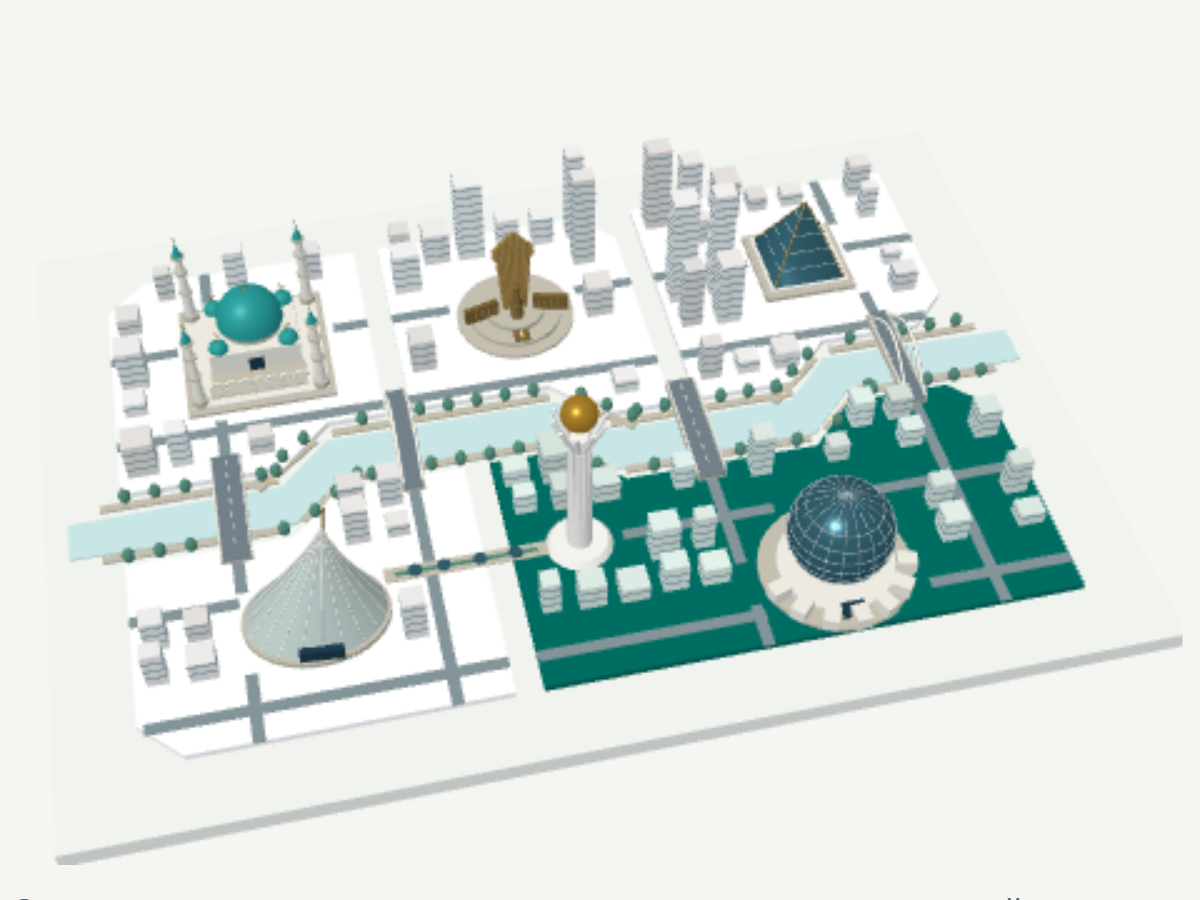
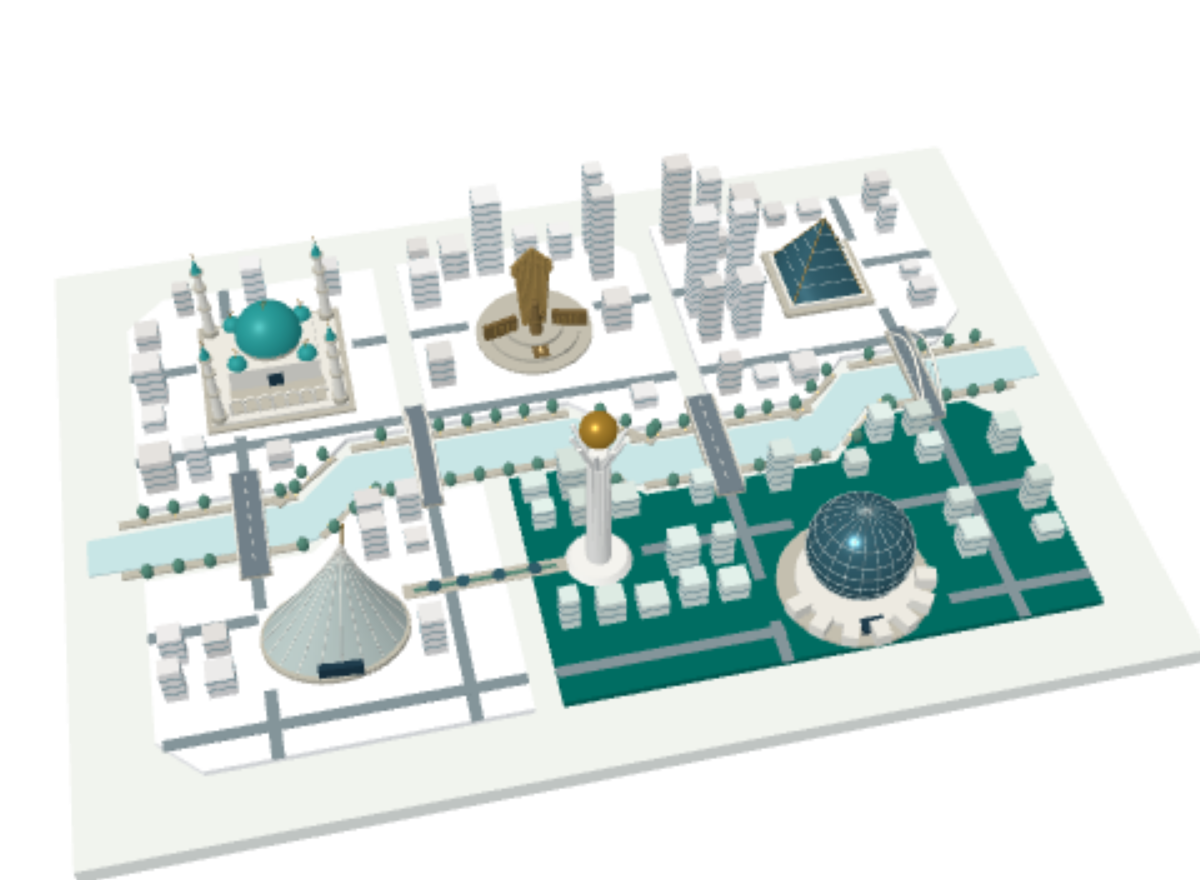
fix(frontend): refresh city previews and record final acceptance

diff --git a/frontend/docs/reports/clean-start.md b/frontend/docs/reports/clean-start.md
@@ -1,0 +1,115 @@
+# Clean-start проверка `origin/main`
+
+Дата: 23.09.2026  
+Статус: **не завершена: контейнерный запуск недоступен в проверяющей среде**.
+
+## Исходники и изоляция
+
+- Сверен `origin/main`: `53ee80641b60cae32571db3476a1a791f9b7416a`.
+- `53ee806` является предком `origin/main` (проверка `git merge-base --is-ancestor` завершилась с кодом 0).
+- Создан отдельный чистый checkout: `C:\\Users\\kiril\\Hackathon\\clean-start-53ee806`.
+- В checkout `HEAD` равен `53ee80641b60cae32571db3476a1a791f9b7416a`, `git status --short` пуст.
+- Для изолированного Compose-прогона выбраны незанятые порты `18080` (API) и `13000` (frontend): `Get-NetTCPConnection -State Listen -LocalPort 18080,13000` не вернул слушателей.
+- Предполагаемое имя Compose project: `akim-clean-53ee806`. Оно отличается от штатного `akim-5h`; существующие контейнеры и действующее демо не запускались, не останавливались и не менялись.
+
+## Фактическая среда
+
+Проверка выполнялась в **Windows PowerShell на хосте Windows**, не в WSL Ubuntu.
+
+| Компонент | Фактический результат |
+| --- | --- |
+| WSL | `wsl.exe -l -q` / `wsl.exe --status`: установленных дистрибутивов нет; Ubuntu недоступна. |
+| Docker / Docker Compose | `docker` отсутствует в `PATH`; `where.exe docker` не нашёл исполняемый файл. `podman` и `nerdctl` также не найдены. |
+| Node.js | `v24.21.0` |
+| npm | `11.19.0` |
+| .NET SDK | отсутствует (`dotnet --version`: `No .NET SDKs were found`). |
+
+Следовательно, невозможно честно выполнить Docker Compose build, запустить API или послать HTTP-запросы, требующие API. Нативная Windows-проверка ниже не является Ubuntu-прогоном и не подтверждает контейнеры.
+
+## Выполненные команды и результаты
+
+```powershell
+git -C C:\Users\kiril\Hackathon\hack-4c816c70-team fetch origin
+git -C C:\Users\kiril\Hackathon\hack-4c816c70-team rev-parse origin/main
+git -C C:\Users\kiril\Hackathon\hack-4c816c70-team merge-base --is-ancestor 53ee806 origin/main
+git clone --no-local --branch main C:\Users\kiril\Hackathon\hack-4c816c70-team C:\Users\kiril\Hackathon\clean-start-53ee806
+git -C C:\Users\kiril\Hackathon\clean-start-53ee806 rev-parse HEAD
+Get-NetTCPConnection -State Listen -LocalPort 18080,13000
+```
+
+Результат: checkout создан отдельно, SHA совпадает с `origin/main`, оба порта на момент проверки свободны.
+
+```powershell
+wsl.exe -l -q
+wsl.exe --status
+where.exe docker
+Get-Command podman,nerdctl,docker.exe -ErrorAction SilentlyContinue
+docker compose version
+node --version
+npm --version
+dotnet --version
+```
+
+Результат: WSL-дистрибутивов, Docker/Compose, Podman/Nerdctl и .NET SDK нет. Node/npm доступны.
+
+```powershell
+Set-Location C:\Users\kiril\Hackathon\clean-start-53ee806\frontend
+npm ci
+npm run build
+```
+
+Первый `npm ci` получил `EPERM` при чтении общего `C:\\Users\\kiril\\AppData\\Local\\npm-cache`; после разрешённого повтора зависимости установились. Финальный `npm run build` завершился успешно: Next.js 16.3.6 собрал `/`, `/decisions` и `/results` как static routes. Это только нативная frontend production build-проверка, без API.
+
+## Проверки clean start
+
+| Проверка | Результат | Причина / наблюдение |
+| --- | --- | --- |
+| `docker compose ... up --build -d --wait` | Не выполнено | Docker/Compose отсутствует. |
+| Healthcheck `GET /health` | Не выполнено | API не может быть собран и запущен без Docker или .NET SDK. |
+| Swagger `/swagger/v1/swagger.json` | Не выполнено | API не запущен. |
+| Контрольный POST | Не выполнено | API не запущен. Контракт в `docs/api.md` задаёт ожидаемые `spent=95`, `remaining=5`, `baselineScore=52.56`, `score=56.54`. |
+| Отказ `choices: []` | Не выполнено | API не запущен. Контракт ожидает HTTP 400 и `error.code=WRONG_CHOICE_COUNT`, без Score. |
+| Frontend production build | Пройден | Нативный Windows build в отдельном checkout; не подтверждает образ frontend. |
+
+## Команды для повторения полного изолированного прогона в WSL Ubuntu
+
+Ниже — подготовленный, но **не выполненный** набор команд. Его следует запускать после установки Ubuntu в WSL и включения Docker Desktop integration. Он использует отдельный каталог, project name и порты; он не затрагивает действующее демо.
+
+```bash
+git clone https://github.com/BAITC-Hacks/hack-4c816c70-team.git ~/akim-clean-53ee806
+cd ~/akim-clean-53ee806
+git fetch origin
+git checkout --detach 53ee80641b60cae32571db3476a1a791f9b7416a
+cp .env.example .env
+sed -i \
+  -e 's/^API_PORT=.*/API_PORT=18080/' \
+  -e 's/^FRONTEND_PORT=.*/FRONTEND_PORT=13000/' \
+  -e 's|^FRONTEND_ORIGIN=.*|FRONTEND_ORIGIN=http://localhost:13000|' \
+  -e 's|^NEXT_PUBLIC_API_URL=.*|NEXT_PUBLIC_API_URL=http://localhost:18080|' \
+  -e 's/^LLM_MODE=.*/LLM_MODE=mock/' \
+  -e 's/^OPENAI_API_KEY=.*/OPENAI_API_KEY=/' .env
+docker compose -p akim-clean-53ee806 up --build -d --wait
+docker compose -p akim-clean-53ee806 ps
+curl --fail http://localhost:18080/health
+curl --fail http://localhost:18080/swagger/v1/swagger.json
+curl --fail-with-body http://localhost:18080/api/simulations/evaluate \
+  -H 'Content-Type: application/json' \
+  -H 'Accept-Language: ru-RU' \
+  --data '{"choices":[{"measureId":"M7","districtId":"nura"},{"measureId":"M8","districtId":"nura"},{"measureId":"M10","districtId":"nura"},{"measureId":"M12"},{"measureId":"M5","districtId":"saryarka"}]}'
+curl --include http://localhost:18080/api/simulations/evaluate \
+  -H 'Content-Type: application/json' \
+  --data '{"choices":[]}'
+docker compose -p akim-clean-53ee806 down --volumes --remove-orphans
+```
+
+В успешном контрольном POST следует дополнительно подтвердить JSON-поля `spent: 95`, `remaining: 5`, `baselineScore: 52.56`, `score: 56.54`. Второй запрос должен дать HTTP 400 с `error.code: WRONG_CHOICE_COUNT` и не содержать оценку.
+
+## README
+
+Статическая сверка README с `docker-compose.yml`, `.env.example` и `docs/api.md` не выявила функционального противоречия: Compose действительно параметризует `API_PORT`, `FRONTEND_PORT`, `FRONTEND_ORIGIN`, `NEXT_PUBLIC_API_URL`, `LLM_MODE` и пустой `OPENAI_API_KEY`.
+
+Полезное конкретное дополнение для README (не внесено по заданию): после раздела о портах добавить изолированную команду для параллельной проверки — `docker compose -p akim-clean-<sha> --env-file .env.clean up --build -d --wait` — и пример `.env.clean` с согласованными `API_PORT`, `FRONTEND_PORT`, `FRONTEND_ORIGIN` и `NEXT_PUBLIC_API_URL`. Это предотвратит случайный конфликт с действующим Compose project при воспроизведении релиза.
+
+## Передача
+
+Коммит, push и деплой не выполнялись: они назначены архитектору. Для полной приёмки нужен повтор раздела «Команды для повторения…» в WSL Ubuntu с Docker Desktop integration или в иной явно названной среде с Docker Compose v2.

diff --git a/frontend/docs/reports/claude-2.md b/frontend/docs/reports/claude-2.md
@@ -1,5 +1,38 @@
 # Отчёт Claude 2 — конструктор пяти решений
 
+## Публичный сайт https://akim-5h-pta5pi108.gobrev.dev/ — приёмка, 23.09.2026, ~16:58–17:02 (UTC+5)
+
+Исполнитель Claude 2. Код и git не менял.
+
+- **URL:** `https://akim-5h-pta5pi108.gobrev.dev/` — не localhost. API на том же хосте (`GET /api/scenario` → 200, `POST /api/simulations/evaluate`).
+- **Версия frontend:** по данным пользователя — `631efbb`. Сборку со страницы я не проверял. Исправления из более новых коммитов (`29817a7` и позже) этому прогону **не приписываются**: ошибки с неизвестным кодом или нарушенным контрактом здесь не проверялись.
+- **Браузер:** встроенный браузер приложения Claude (Chromium 152.0.7977.130, Windows 10 x64), верхняя вкладка. Размеры задавались эмуляцией: 1440×900 (desktop, `clientWidth` 1425 с обычным скроллбаром) и 390×844 (мобильный профиль, скроллбар поверх контента, `clientWidth` 390).
+- **Метод:** нажатия на элементы интерфейса (навигация, радиокнопки районов, «Добавить», «×», «Оценить» в нижней мобильной панели, «Edit decisions»). Язык — через `LanguageSwitcher` (select: значение + `change`). Для учёта POST и ошибок в странице перехвачены `fetch`, `console.error`, `onerror`. Переходы только внутри SPA, без перезагрузки.
+- **Оценок через API: 1** (лимит — 2).
+
+| # | Проверка | Факт | Итог |
+| --- | --- | --- | --- |
+| 1 | Контрольный план M7 Нура, M8 Нура, M10 Нура, M12 город, M5 Сарыарка | До оценки: «95 из 100 / 5 ед.», «5 из 5», «Возможная синергия: M10 и M12». POST (17:00:26) `Accept-Language: ru-RU`, тело `{"choices":[…,{"measureId":"M12"},…,{"measureId":"M5","districtId":"saryarka"}]}` → 200, `Content-Language: ru-RU`, `explanationSource: llm`, baseline 52.56, score 56.54, spent 95, remaining 5. Страница: «Ваш план оценён», **«52,56 → 56,54»**, «+3,98», **«95 / 100»**, **«Остаток: 5 ед.»**, синергия «M10 + M12 · Нура: Безопасность улиц +2», «AI-анализ» | Пройдено |
+| 2 | Блокировка несовместимых мер | M3 при M1 (в Есиле): «Нельзя вместе с M1: Либо выделенные полосы (BRT), либо ЛРТ — в любом районе.». M7 при M4 в Нуре: Нура недоступна, «В районе Нура нельзя: уже выбрана M4…»; в Алматы добавлена (`M4:nura,M7:almaty`). Нура у M7 выбрана заранее → M4 в Нуру → «Добавить» у M7 неактивна, «В районе «Нура» уже выбрана M4… Выберите другой район.». 0 POST | Пройдено |
+| 3 | RU/KK/EN на решениях, 390 px | План тот же во всех языках; нижняя панель «5 из 5 остаток 5 ед. План» / «5 / 5 қалдық: 5 бірл. Жоспар» / «5 of 5 5 units left Plan»; корзина открывается, фокус на «План»/«Жоспар»/«Plan», «Оценить» не перекрыта, Escape закрывает, фокус возвращается; переполнение 0; **0 POST** | Пройдено |
+| 4 | RU → KK → EN на готовом результате | **0 POST**, числа прежние (95 / 100, 52.56 → 56.54). Подписи: «Түсіндірме «Русский» тілінде алынған…», «This explanation was received in Русский…»; кнопки «Қазақ тілінде қайта бағалау» / «Re-evaluate in English» — не нажимались | Пройдено |
+| 5 | Сохранение плана после возврата к редактированию | «Edit decisions» → `/decisions`: `M7:nura,M8:nura,M10:nura,M12:city,M5:saryarka`, «95 of 100 / 5 units», пункт «Results» остаётся ссылкой (план не менялся); 0 POST | Пройдено |
+| 6 | 1440 px | `/decisions` (пустой и полный план) и `/results`: переполнение 0; кнопки результата в пределах экрана | Пройдено |
+| 7 | 390 px | `/decisions` (корзина открыта/закрыта, 3 языка) и `/results` (ru/kk/en): переполнение 0 | Пройдено |
+| 8 | Ошибки React / `console.error` / `onerror` | 0 | Пройдено |
+
+### Ограничения
+
+- 390 px — мобильная эмуляция встроенного браузера: скроллбар поверх контента. Сценарий E2E «окно 390 с обычным скроллбаром» на публичном URL не воспроизводился: к чужому origin нельзя обратиться из iframe.
+- Реальные нажатия клавиш недоступны (вкладка скрыта): Escape — событием `keydown`, кнопки — `click()`, язык — через select переключателя.
+- Явное обновление объяснения не нажималось, чтобы не тратить вторую платную оценку; проверено только появление кнопки. «Начать заново», прямой `/results` и ошибки API на публичном сайте не проверялись.
+- На kk числа результата отображаются с точкой («52.56») — особенность ICU встроенного Chromium (`kk-KZ` → «.»), замечено и на localhost. В обычном Chrome не проверено.
+- Скриншоты не снимались (панель браузера не отрисовывается).
+- Черновик контрольного плана остался в `sessionStorage` моей вкладки; на сервер это не влияет.
+
+---
+
+
 ## Приёмочный прогон сайта, 23.09.2026, 16:48–16:51
 
 Исполнитель Claude 2. Код и git не менял.

diff --git a/frontend/docs/reports/claude-1.md b/frontend/docs/reports/claude-1.md
@@ -551,3 +551,31 @@ Claude 1 — включить в релиз:
 - **Firefox, интерактивный 3D.** Headless-снимок сделан до окончания загрузки (цифры сценария ещё в скелетоне), поэтому по нему нельзя сказать, запустился ли 3D или остался снимок. Клики, переходы и консоль в Firefox не проверялись: CDP-драйвер работает только с Chromium.
 - **Снимок и выбранный район.** Снимок статичный, на нём всегда подсвечена Есиль; при выборе другого района без WebGL подсветка на снимке не меняется, выбор идёт через карточки. Это ожидаемое ограничение снимка, а не проверенный сценарий.
 - Реальный отказ WebGL из-за драйвера, а не из-за флага, и мобильные браузеры на устройствах.
+
+## Исправление снимков fallback (preview-day.png / preview-night.png)
+
+Изменены только `public/city/preview-day.png`, `public/city/preview-night.png` (имена прежние) и этот отчёт. Геометрия, CSS, компоненты, API и зависимости не менялись. Git, commit и деплой — архитектор.
+
+**Дефект.** В прежних снимках (1200×900, мои кропы сцены) у нижнего края попадала полоска подписи под сценой.
+
+**Как сняты новые.**
+- Локальный `:3000` (рабочая копия на `53ee806`), 1440×900, headless Edge через CDP.
+- Кадр — ровно прямоугольник canvas (`getBoundingClientRect` = 832,5 / 149,58 / 480×352, масштаб 2,5): только 3D-сцена, без подписи, статуса и элементов страницы.
+- Результат 1200×880 — те же пропорции 600:440, что у `.stage`.
+- Фон страницы на время съёмки сделан прозрачным (только в сессии DevTools, код не менялся), поэтому PNG теперь RGBA. Снимок ложится на фон любой темы; в «Бумаге» нет светлого прямоугольника.
+- Дневной снимок снят в теме «День», ночной — в «Ночи»; выбран район по умолчанию (Есиль).
+
+| Проверка (WebGL отключён, `--disable-3d-apis`) | Результат |
+| --- | --- |
+| 1440, «День» | Фон `preview-day.png`, полоски текста нет; подпись «Не удалось запустить 3D… Показан снимок модели…» и кнопка «Запустить 3D»; canvas 0 |
+| 1440, «Ночь» | Фон `preview-night.png`, то же |
+| 1440, «Бумага» | Фон `preview-day.png` на тёплом фоне без прямоугольника, то же |
+| 390, три темы | Колонка 3D скрыта по дизайну (`heroArt: display none` при < 900 px), снимок не показывается; `scrollWidth = clientWidth = 375`; районы выбираются карточками |
+
+Скриншоты: `shots14/nowebgl-{light,dark,paper}-1440.png`, `nowebgl-{light,dark,paper}-390.png`; прежние снимки сохранены как `preview/old-preview-{day,night}.png` (scratchpad сессии).
+
+**Ограничения.**
+- На снимке всегда подсвечена Есиль; выбор другого района без WebGL на снимке не отражается (он виден в карточках и на SVG-схеме).
+- Для «Бумаги» отдельного снимка нет: используется дневной, 3D-палитра на нём от темы «День».
+- На публичном сайте новые снимки появятся после деплоя архитектора; до этого там старые файлы.
+- Размер вырос: 416 КБ и 395 КБ против 359 и 342 КБ (альфа-канал).

diff --git a/README.md b/README.md
@@ -49,6 +49,8 @@ C# Minimal API: проверка → расчёт → объяснение
 
 Язык объяснения задаётся `Accept-Language: ru-RU / kk-KZ / en-US`; фактический язык возвращается в `explanationLocale` и `Content-Language`. Смена языка интерфейса не вызывает платный запрос автоматически: объяснение обновляется отдельной кнопкой.
 
+API также предоставляет `POST /api/simulations/alternatives`: поиск лучших найденных замен одной меры по целям Score, помощь слабейшему району и экономия. Сервер проверяет допустимость вариантов и рассчитывает последствия; AI может выбрать вариант и аргументы из проверенного набора. Это ограниченный поиск, а не глобальная оптимизация. Endpoint описан в [контракте](docs/api.md); экран альтернатив во frontend пока не подключён.
+
 ```text
 backend/                .NET API, датасет, расчёт и серверные проверки
 frontend/app/           страницы /, /decisions, /results
